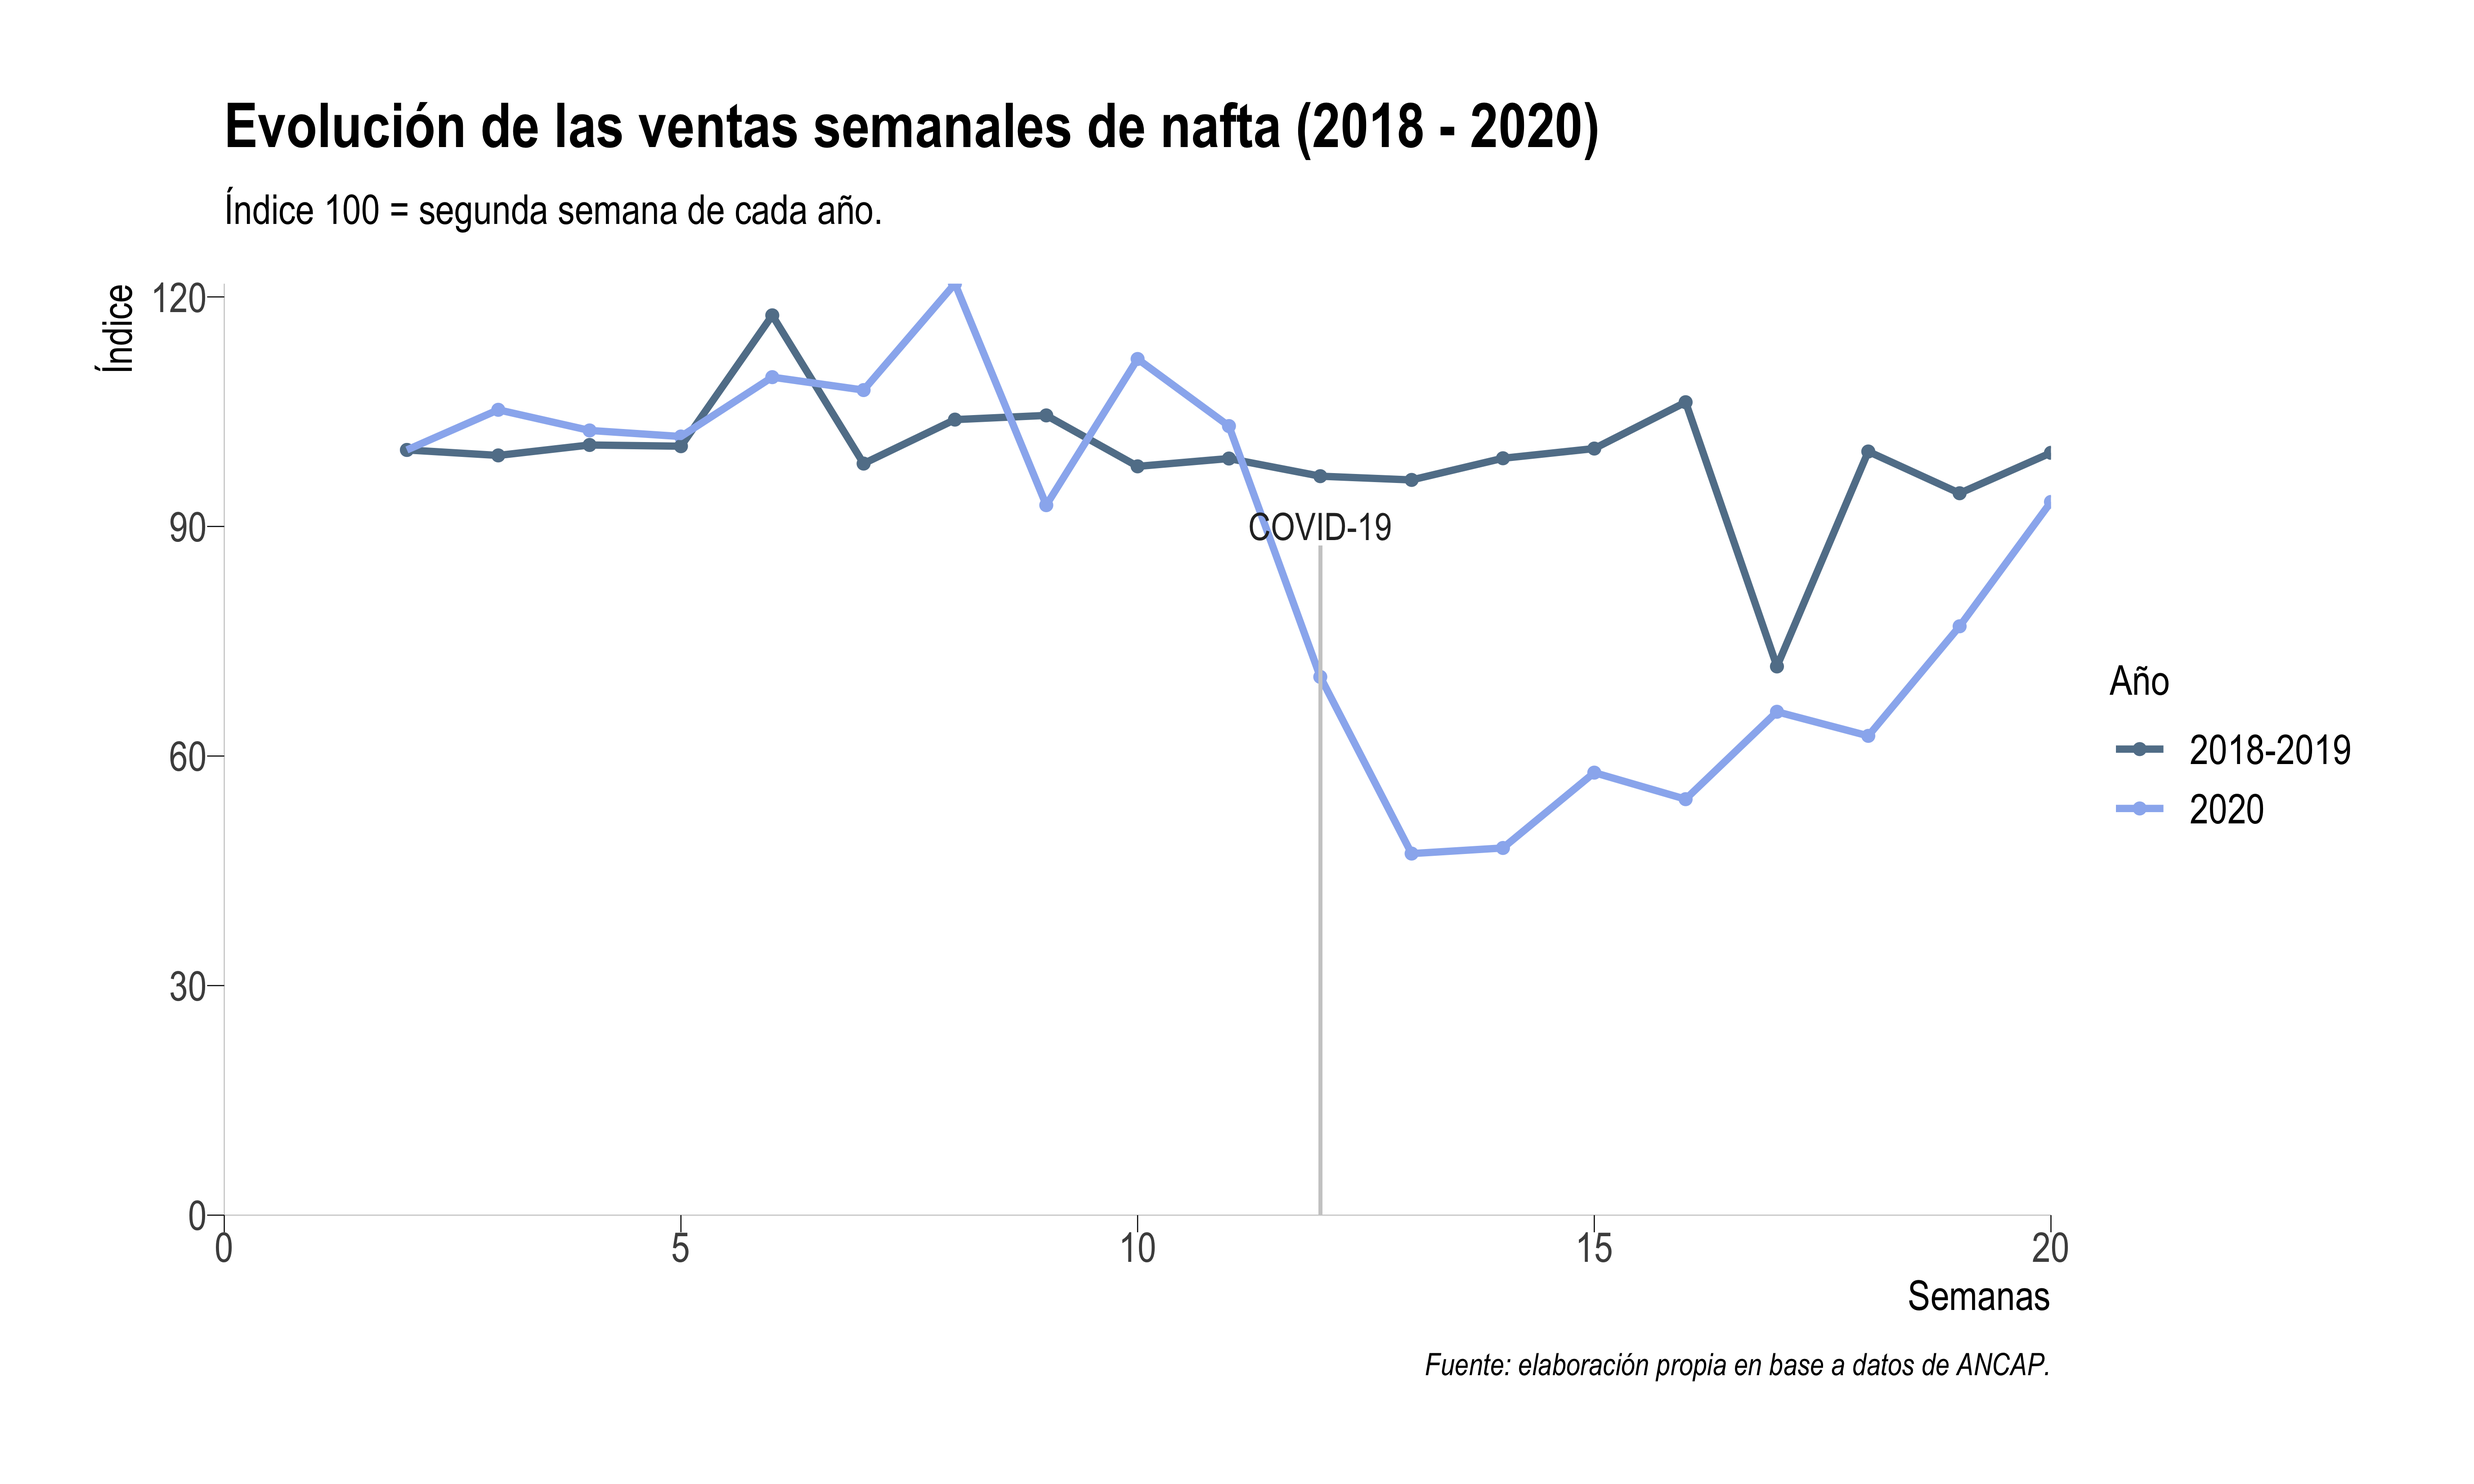
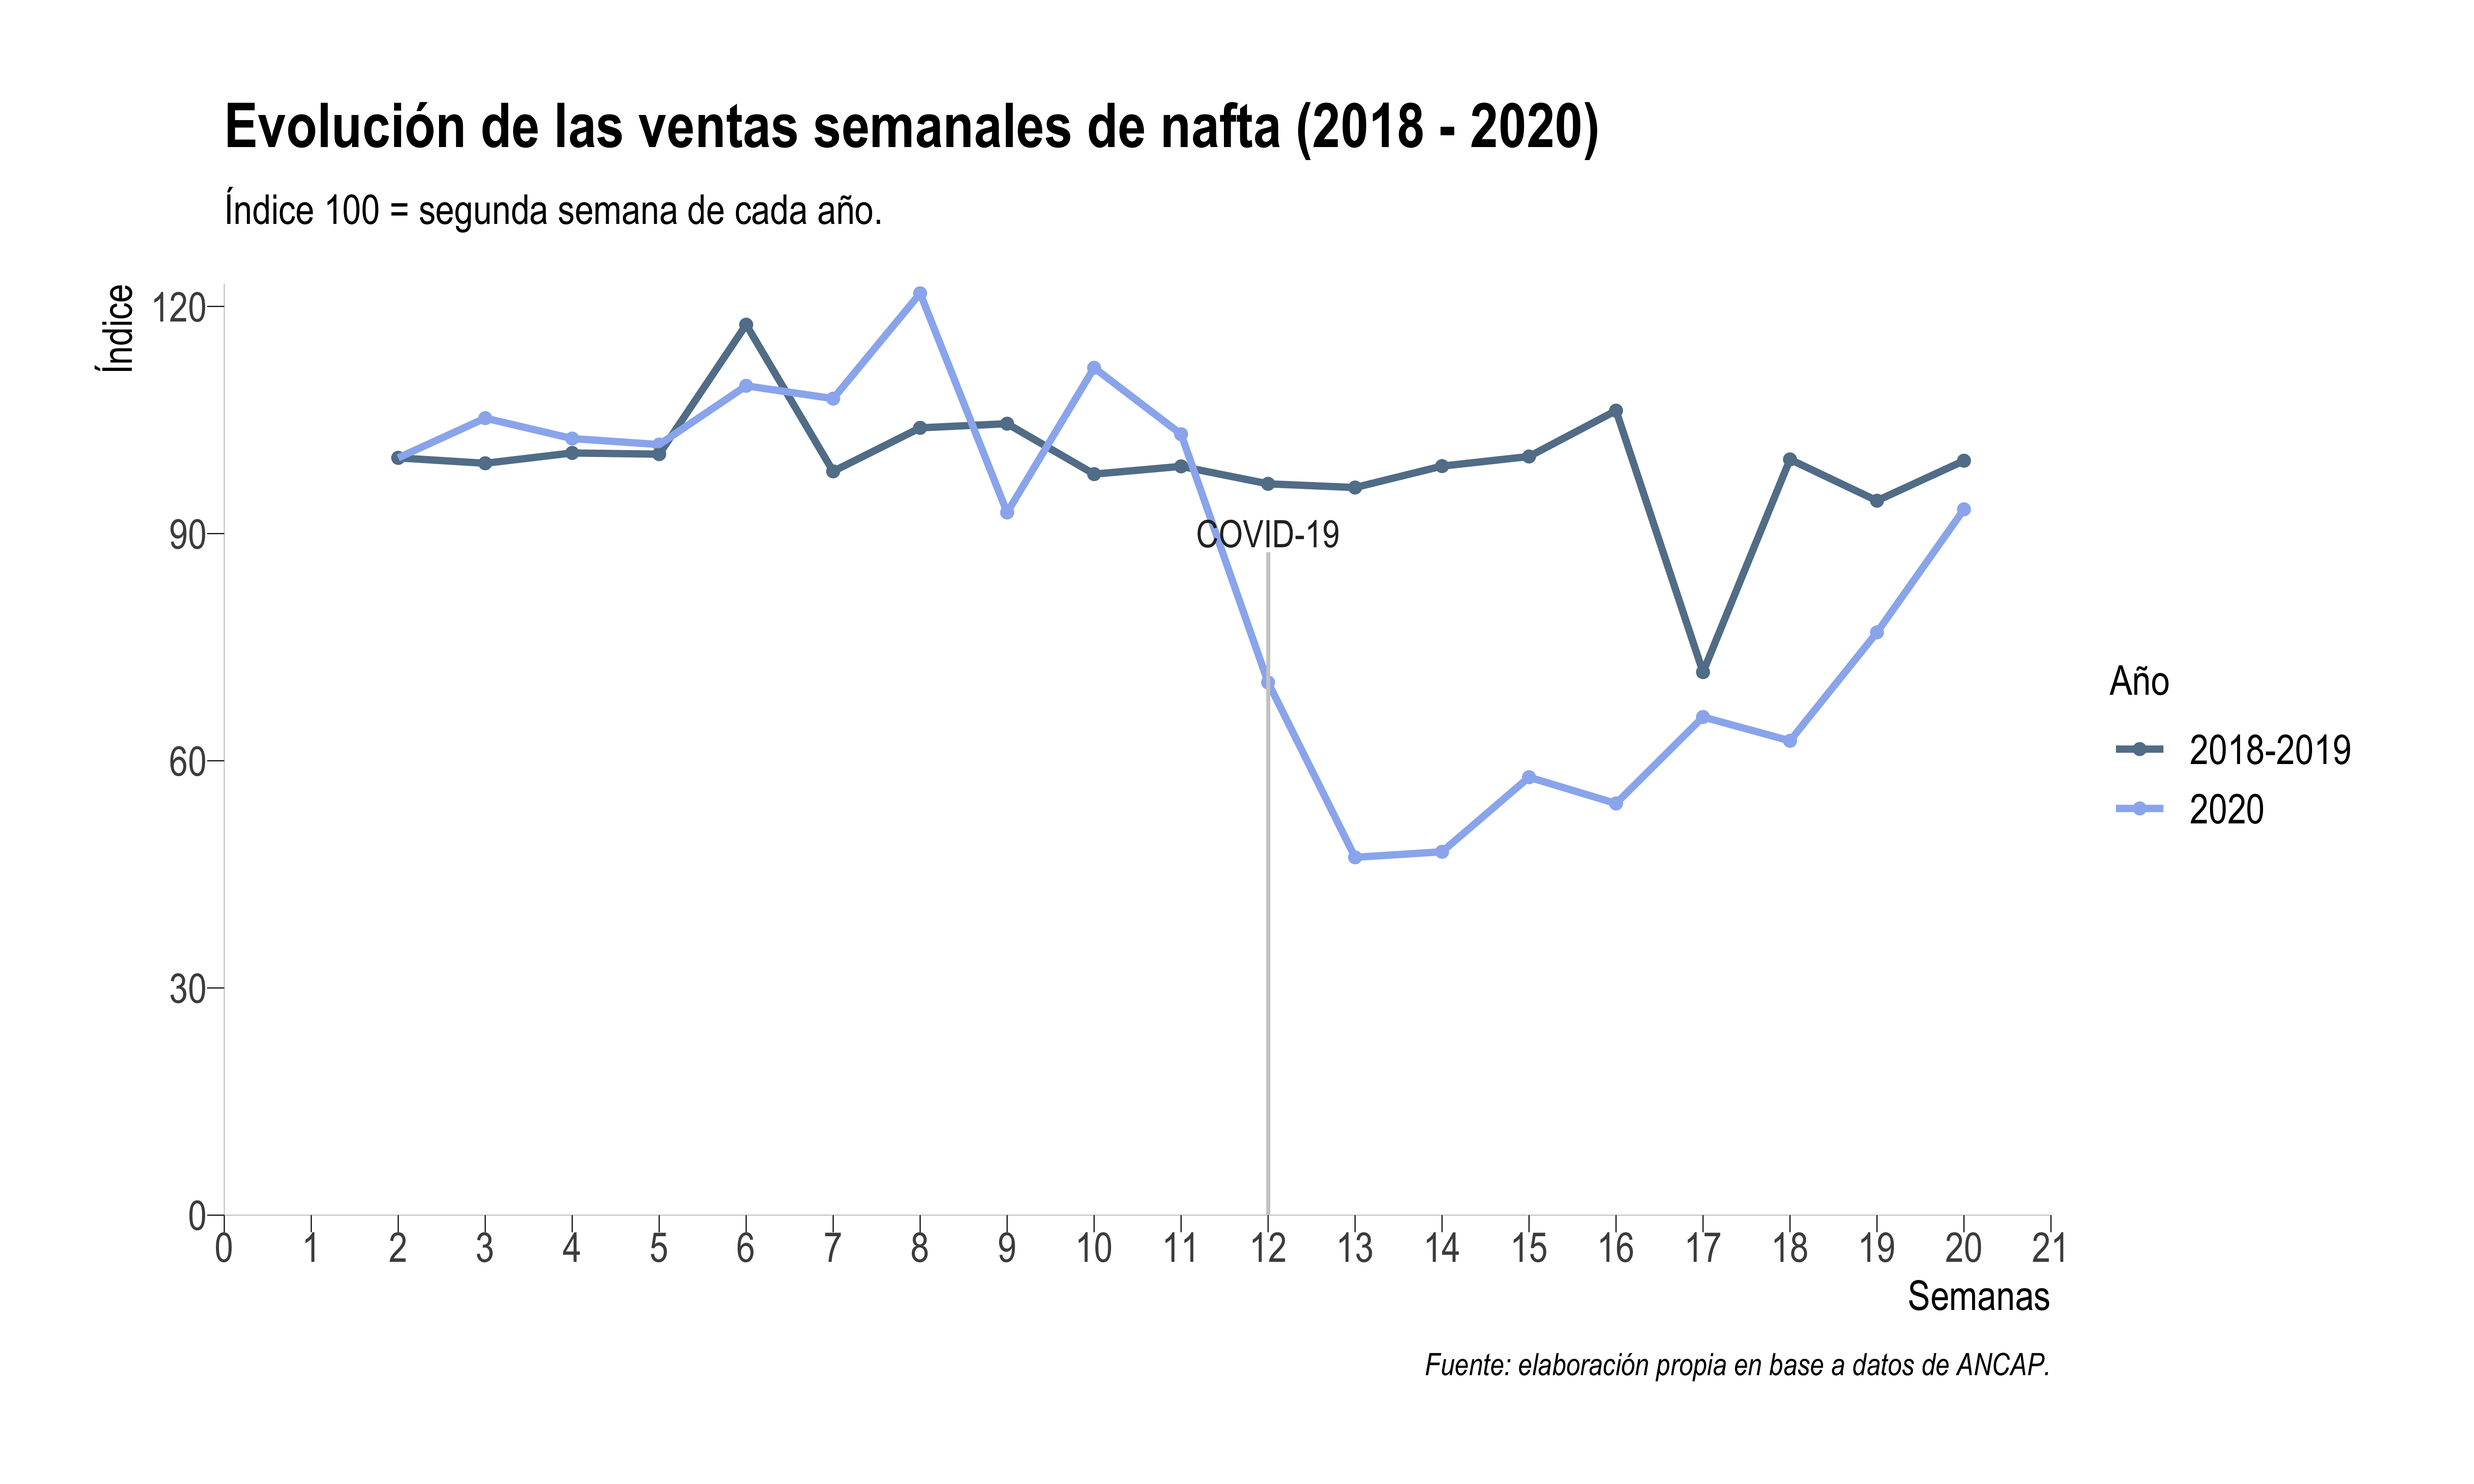
actualiza post a nuevos datos

diff --git a/content/post/2020-05-25-covid-19-y-naftas.html b/content/post/2020-05-25-covid-19-y-naftas.html
@@ -34,13 +34,16 @@ td {
    
 }
 </style>
-<p>La siguiente gráfica muestra un índice de la evolución de las ventas de nafta tomando como base la segunda semana del año.
-Compara la evolución de las ventas (hasta la semana que culmina el 16 de mayo) de 2020 contra el promedio de 2018 y 2019.</p>
+<p>La siguiente gráfica muestra un índice de la evolución de las ventas de nafta tomando como base la segunda semana del año.</p>
+<p>Compara la evolución de las ventas (hasta la semana que culmina el 16 de mayo) de 2020 contra el promedio de 2018 y 2019.</p>
 <p align="center">
 <img src="/img/combustibles.png">
 </p>
-<p>Aclaración:</p>
-<p>La caída en la semana 17 coincide con un paro de FANCAP en 2018, que <a href="https://www.subrayado.com.uy/estaciones-servicio-preven-falta-combustible-paro-y-feriado-n503275">bloqueó el acceso a La Tablada.</a></p>
+<p>Aclaraciones:</p>
+<ul>
+<li>La semana de turismo en 2020 corresponde a la semana 13,</li>
+<li>La caída en la semana 17 coincide con un paro de FANCAP en 2018, que <a href="https://www.subrayado.com.uy/estaciones-servicio-preven-falta-combustible-paro-y-feriado-n503275">bloqueó el acceso a La Tablada.</a>.</li>
+</ul>
 <hr />
 <p>Publicación:</p>
 <table>
